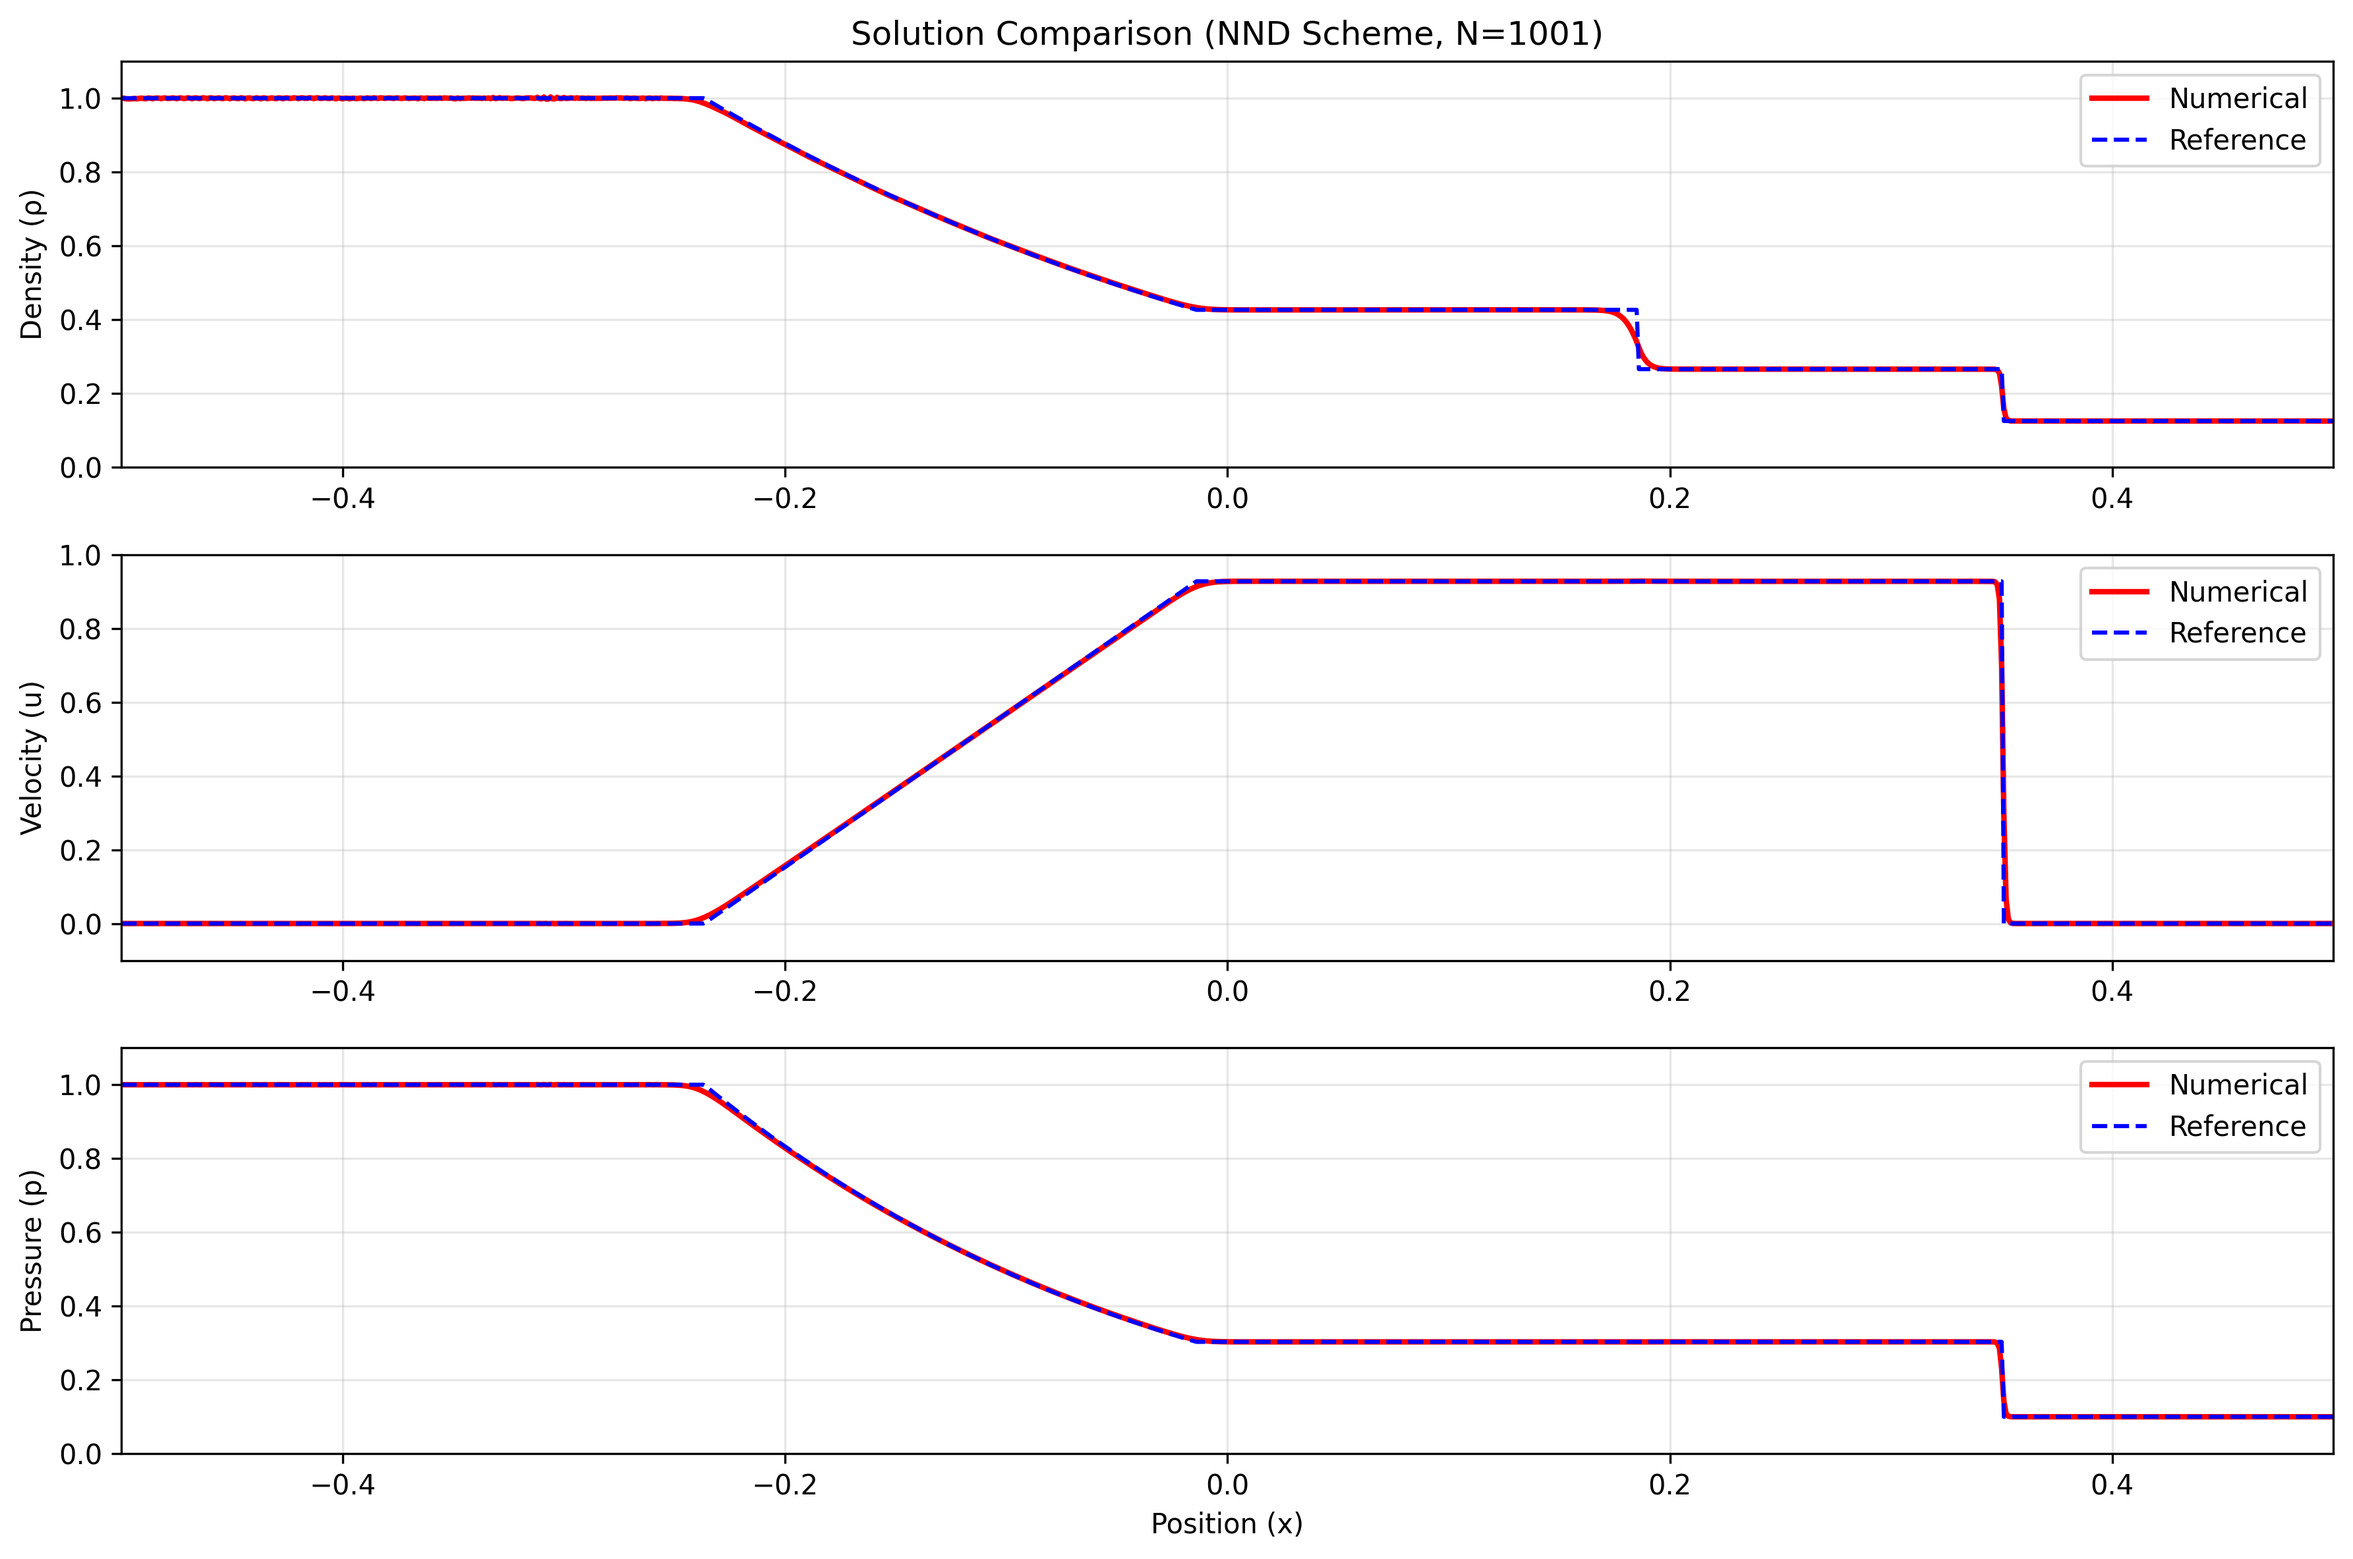
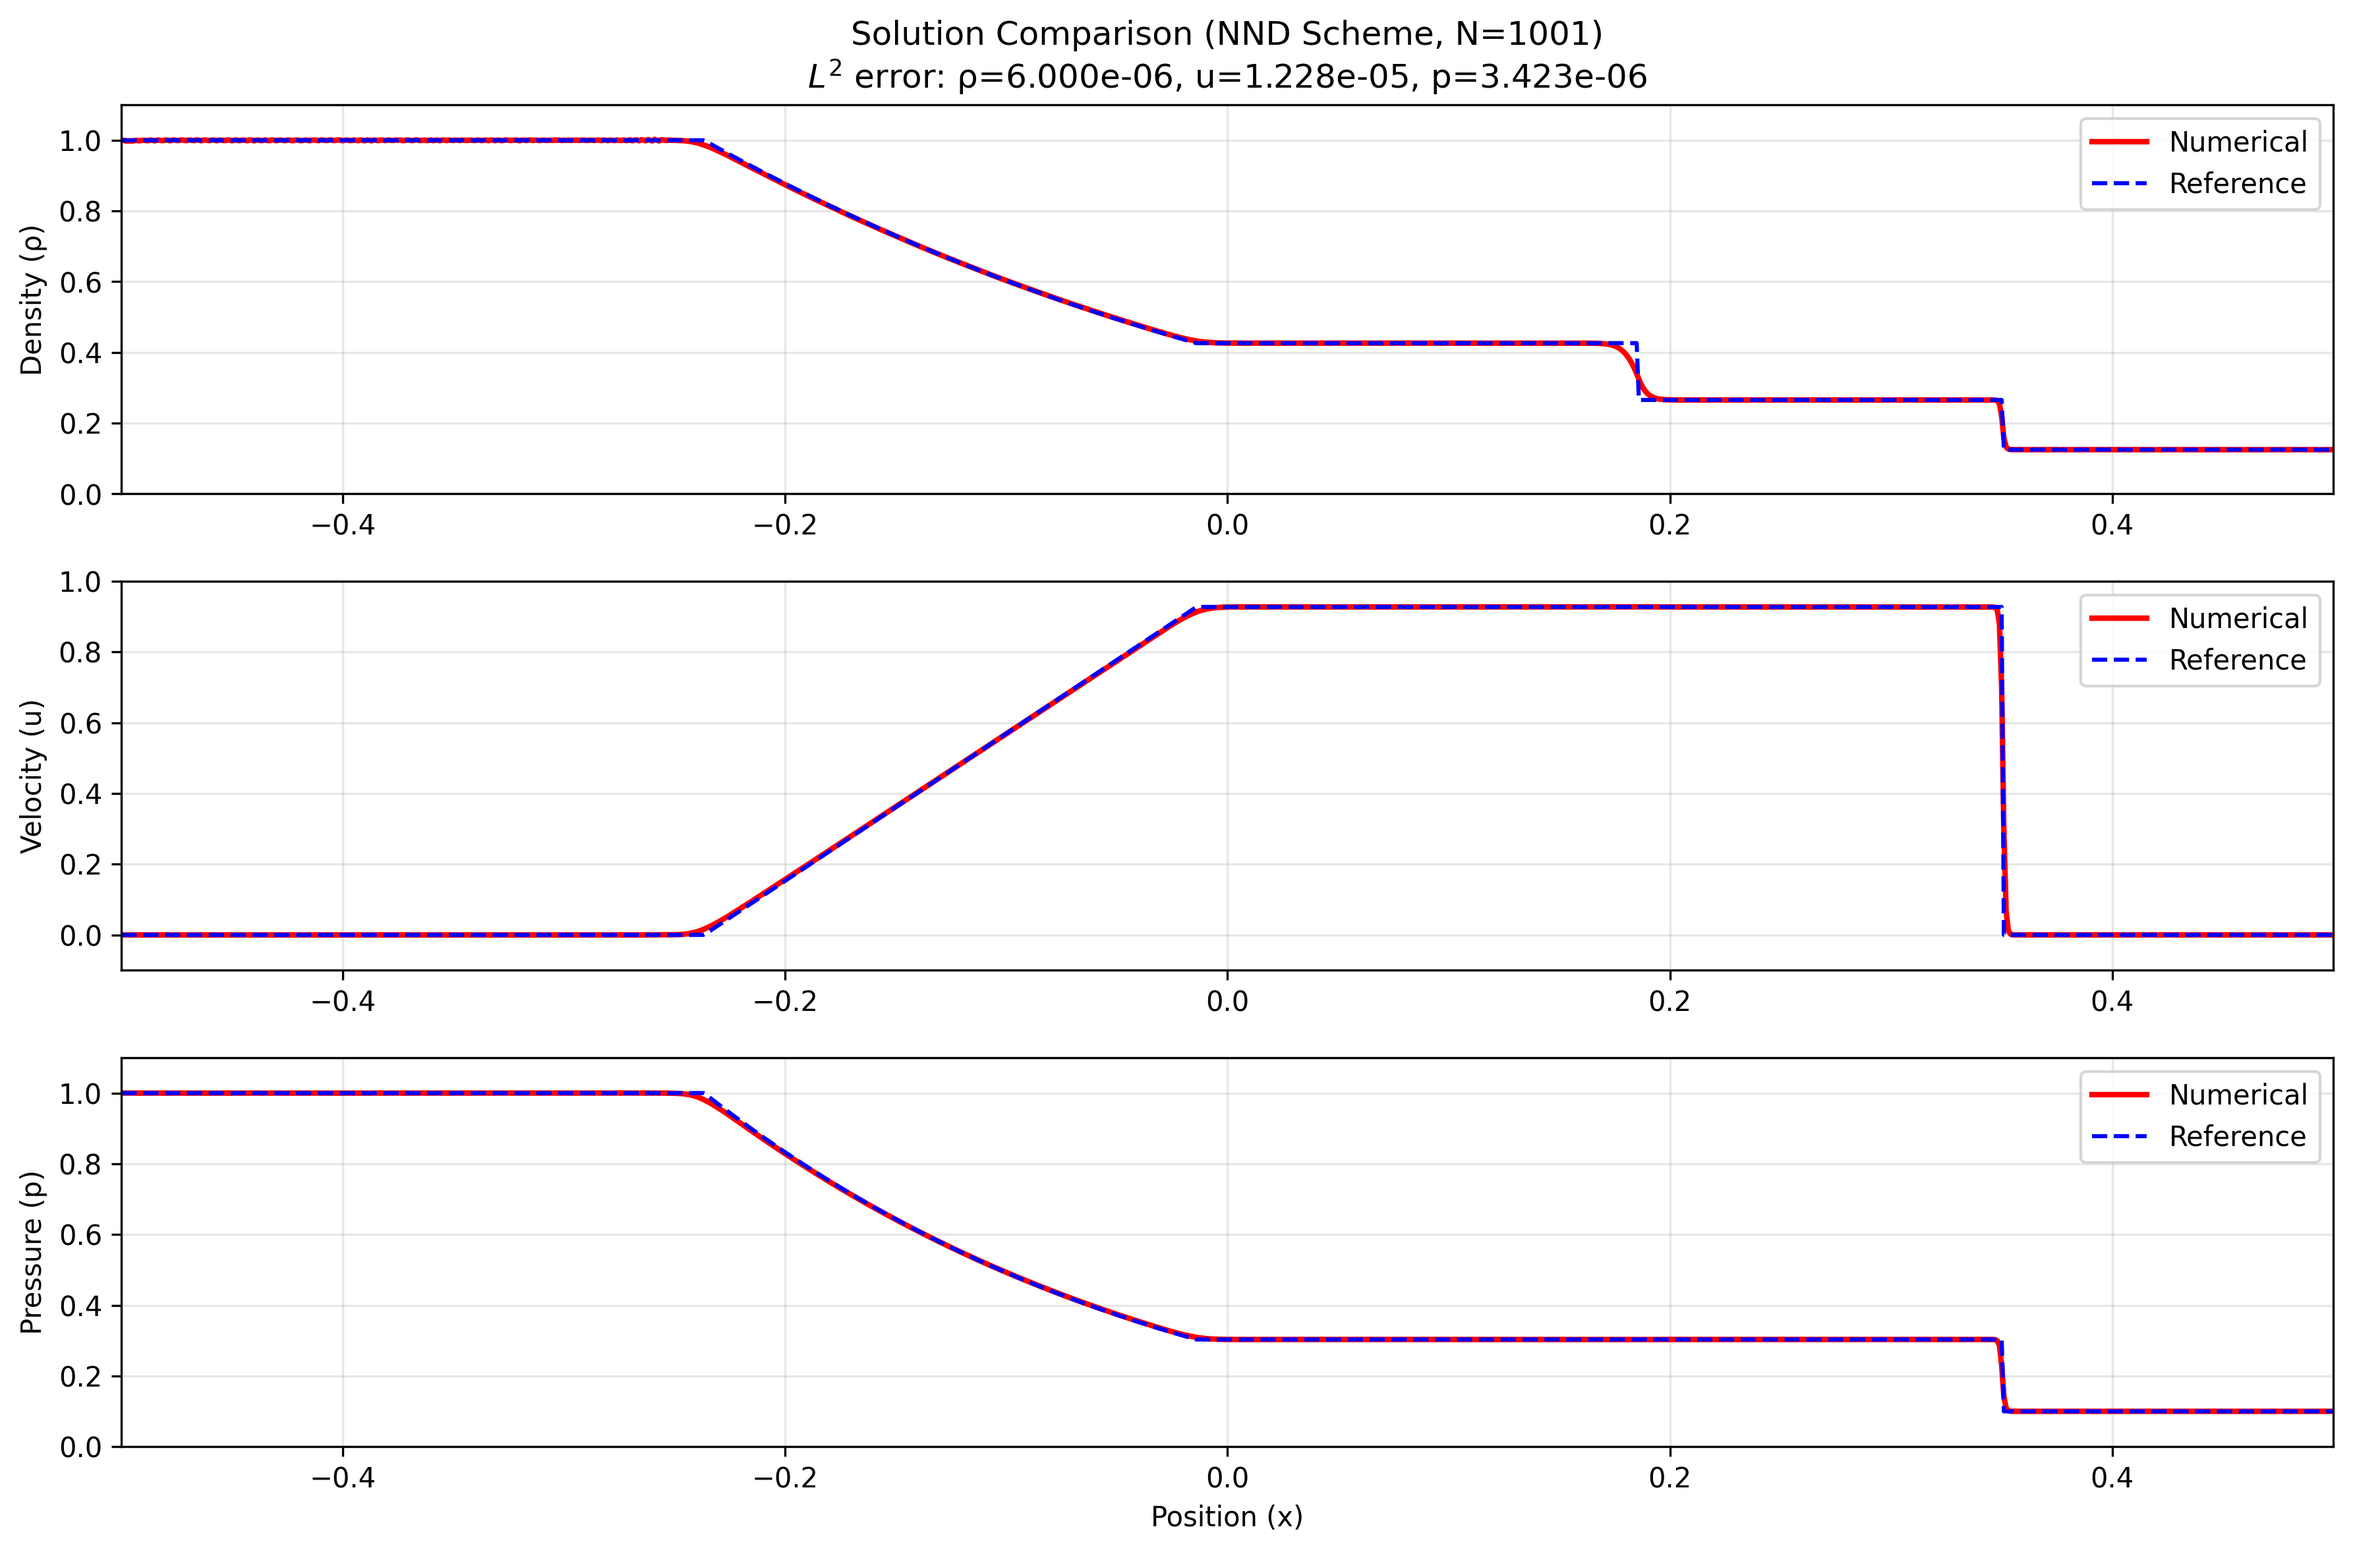
添加了误差范数计算

diff --git a/CFDFinal/numerical_test.py b/CFDFinal/numerical_test.py
@@ -69,6 +69,9 @@ def RK3(U, dt, RHS): #三阶Runge-Kutta（heun格式）
     U2 = U + 2 / 3 * dt * RHS(U1)
     return 1 / 4 * (U + 3 * U1) + 3 / 4 * dt * RHS(U2)
 
+def calculate_l2_error(num, ref, N):
+        return np.sqrt(np.mean((num - ref) ** 2)) / (N - 1)
+
 class solver:
     def __init__(self, CFL, T):
         self.CFL = CFL
@@ -220,18 +223,33 @@ class WENO(solver):
     
 def plot_comparison(rho, u, p, ref_data, title_suffix = ""):
     plt.figure(figsize=(12, 8))
-    x = np.linspace(-0.5, 0.5, len(rho))
+
+    N = len(rho)
+    x = np.linspace(-0.5, 0.5, N)
+    x_ref = ref_data['x']  # 参考解的网格（10001个点）
+
+    # 找到数值解网格点在参考解中的最近邻索引
+    indices = np.abs(x_ref[:, None] - x).argmin(axis=0)
+    # 提取匹配的参考解值
+    ref_rho_matched = ref_data['rho'][indices]
+    ref_u_matched = ref_data['u'][indices]
+    ref_p_matched = ref_data['p'][indices]
+
+    l2_rho = calculate_l2_error(rho, ref_rho_matched, N)
+    l2_u = calculate_l2_error(u, ref_u_matched, N)
+    l2_p = calculate_l2_error(p, ref_p_matched, N)
 
     # 设置颜色和线型
     num_style = {'color': 'red', 'linestyle': '-', 'linewidth': 2, 'label': 'Numerical'}
     ref_style = {'color': 'blue', 'linestyle': '--', 'linewidth': 1.5, 'label': 'Reference'}
+    error_text = f'$L^2$ error: ρ={l2_rho:.3e}, u={l2_u:.3e}, p={l2_p:.3e}'
     
     # 1. 密度对比
     plt.subplot(3, 1, 1)
     plt.plot(x, rho, **num_style)
     plt.plot(ref_data['x'], ref_data['rho'], **ref_style)
     plt.ylabel('Density (ρ)')
-    plt.title(f'Solution Comparison {title_suffix}')
+    plt.title(f'Solution Comparison {title_suffix}\n{error_text}')
     plt.legend()
     plt.grid(True, alpha=0.3)
     plt.axis([-0.5, 0.5, 0, 1.1])
@@ -271,7 +289,7 @@ TVDsolver = TVD(CFL, T)
 rho, u, p = TVDsolver.solve(U)
 plot_comparison(rho, u, p, values, "(TVD Scheme, N=201)")
 
-'''#TVD格式（N = 501）
+#TVD格式（N = 501）
 U = np.zeros((501, 3))
 TVDsolver = TVD(CFL, T)
 rho, u, p = TVDsolver.solve(U)
@@ -293,4 +311,4 @@ plot_comparison(rho, u, p, values, "(NND Scheme, N=1001)")
 U = np.zeros((1001, 3))
 WENOsolver = WENO(CFL, T)
 rho, u, p = WENOsolver.solve(U)
-plot_comparison(rho, u, p, values, "(WENO Scheme, N=1001)")'''
+plot_comparison(rho, u, p, values, "(WENO Scheme, N=1001)")
